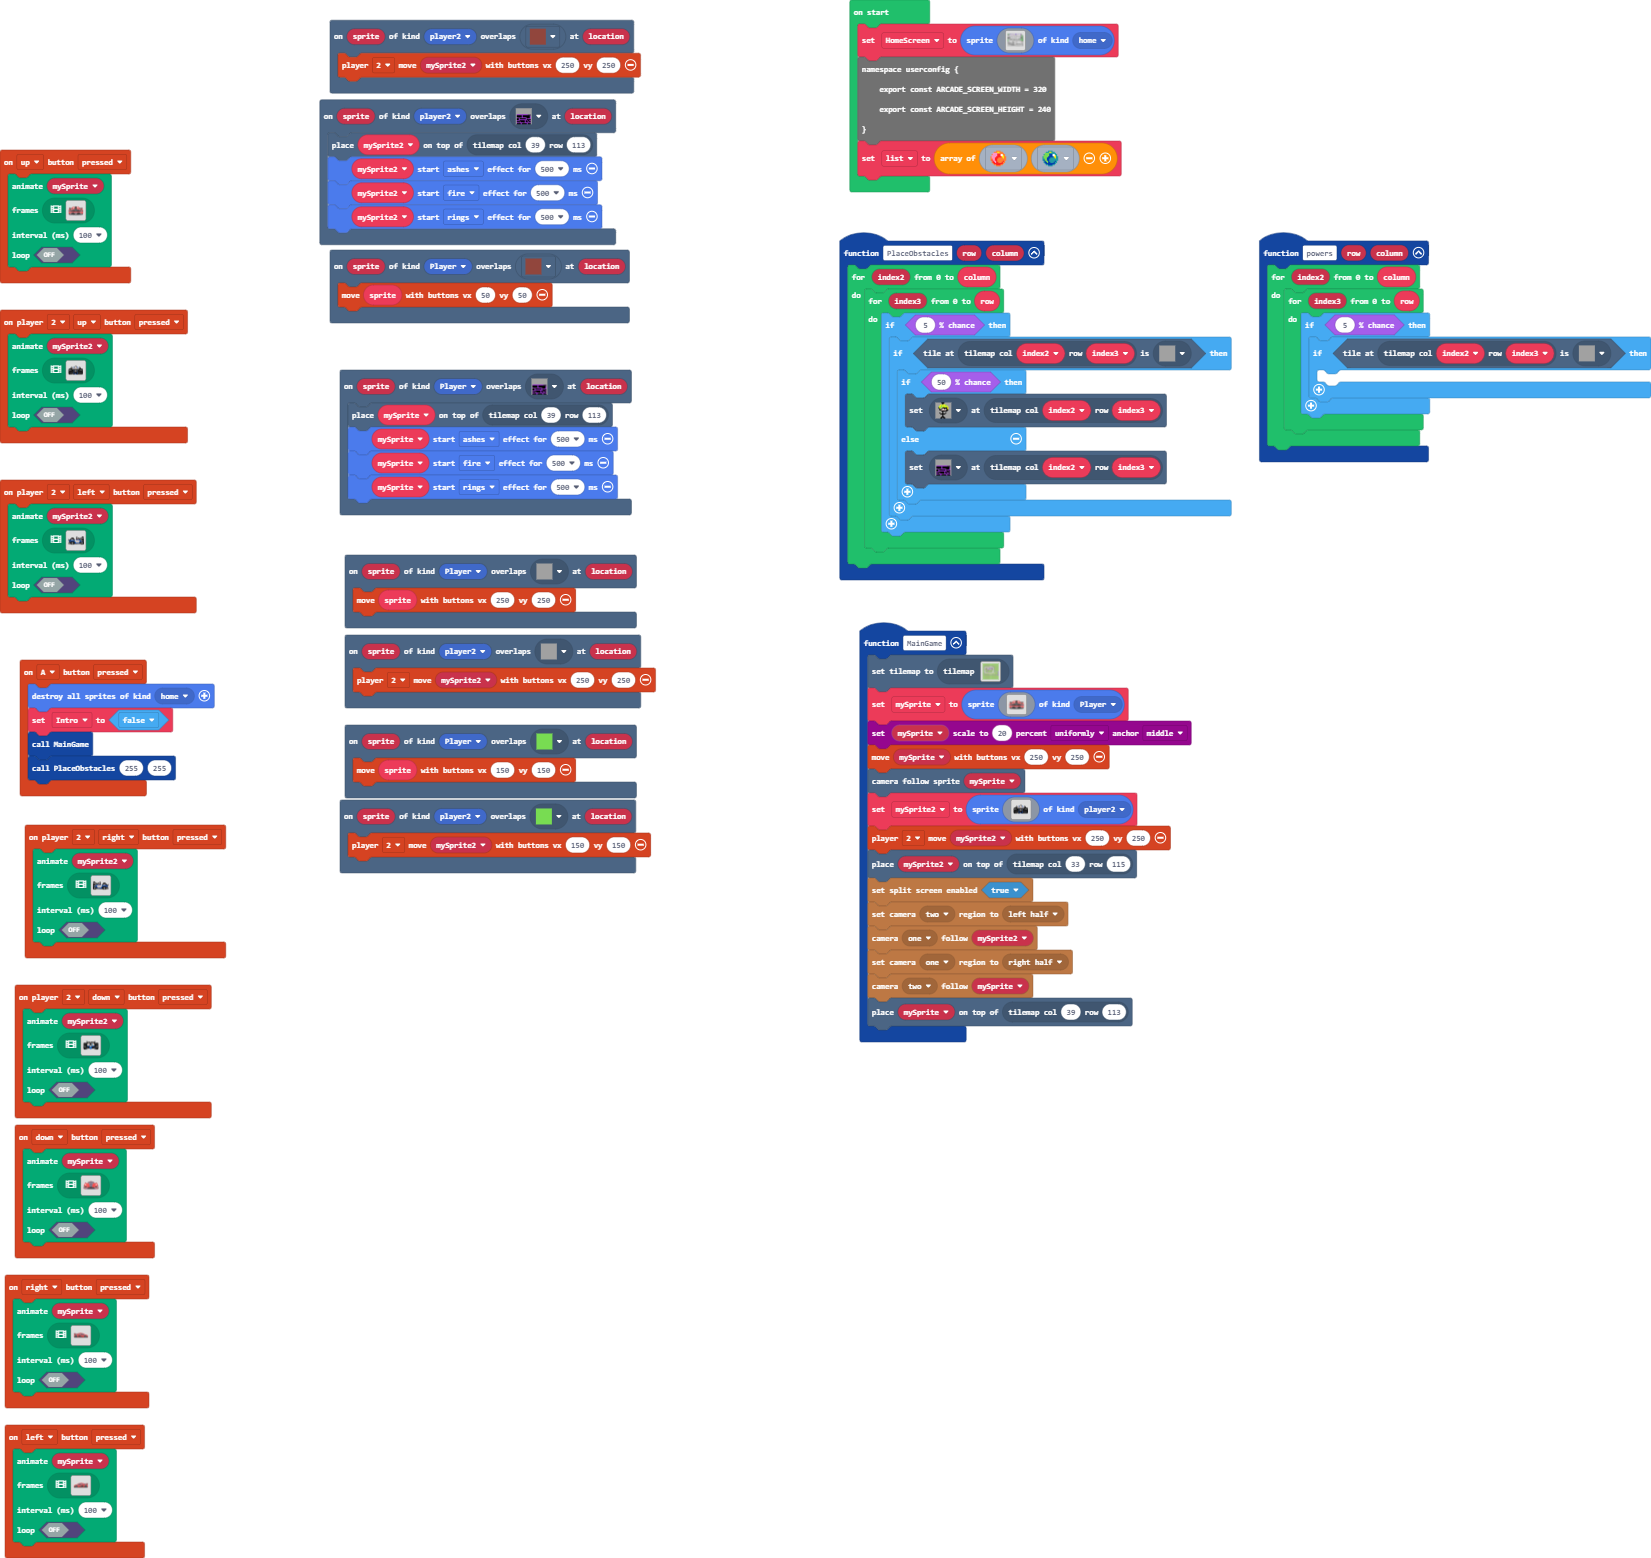
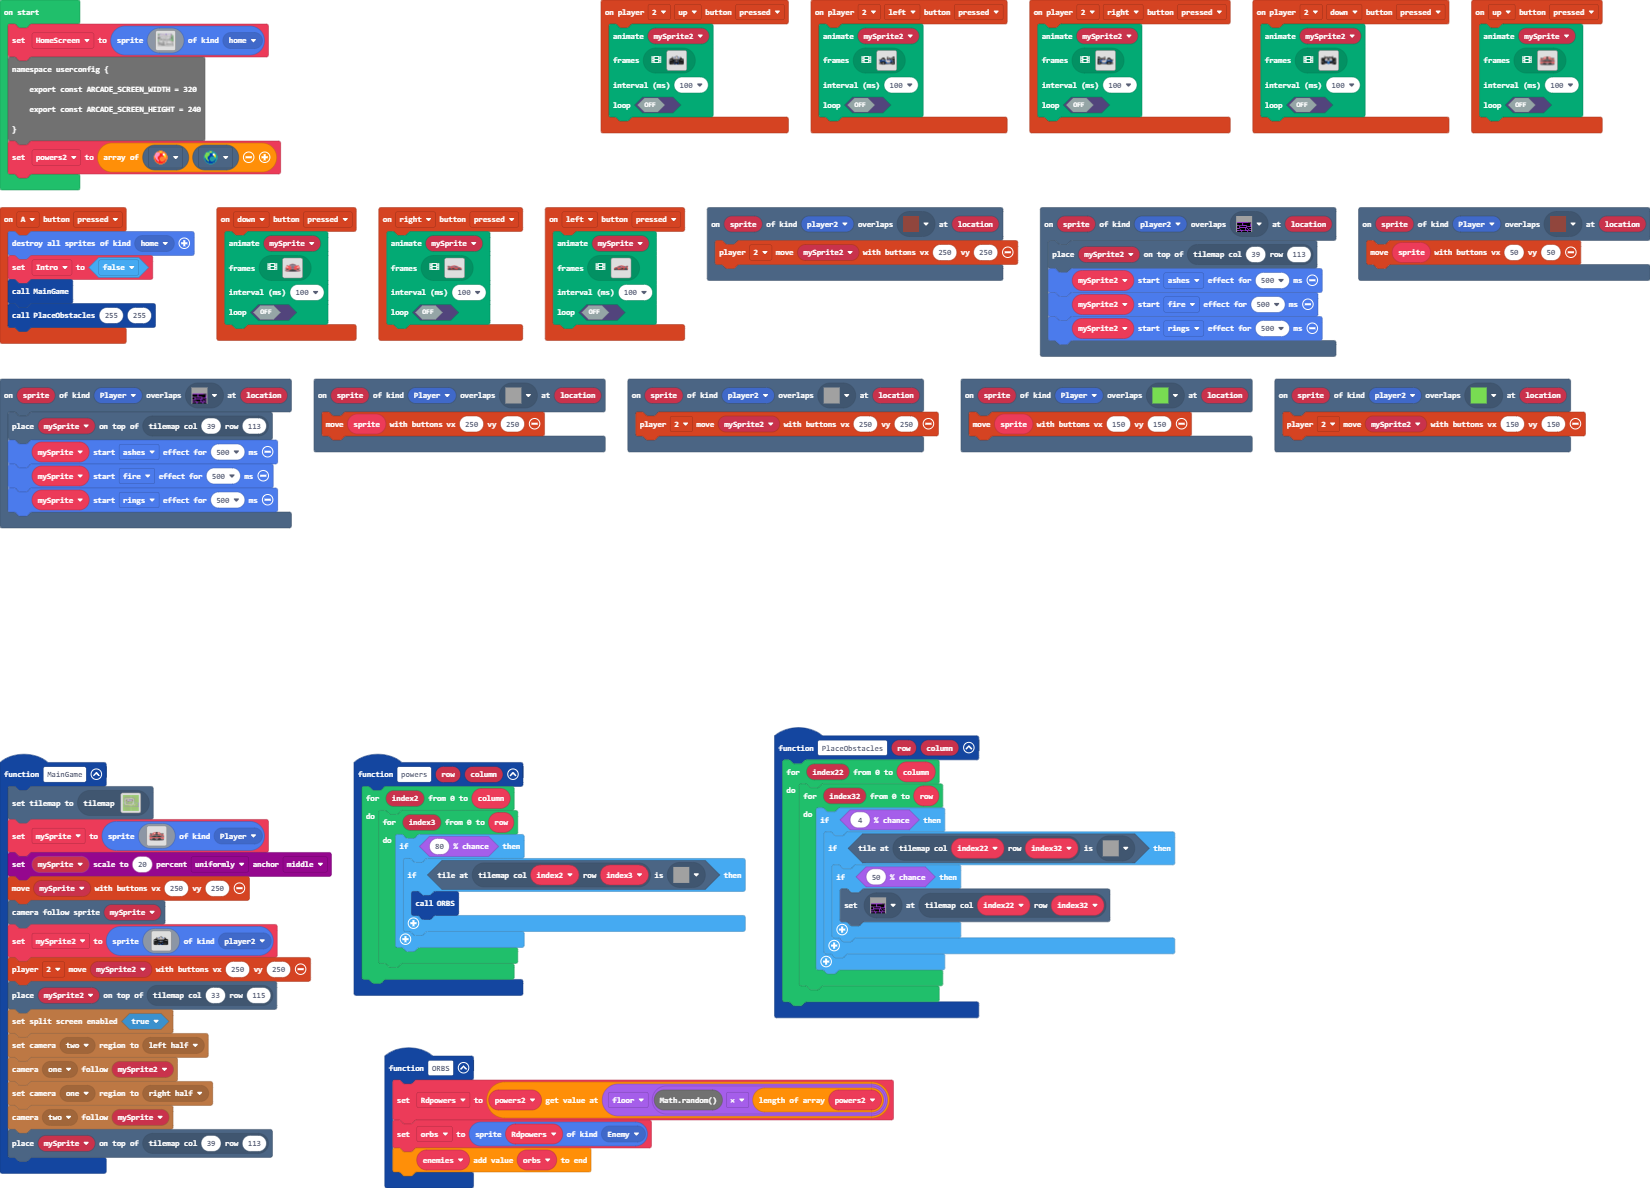
Update main.blocks, main.ts

diff --git a/main.ts b/main.ts
@@ -379,9 +379,9 @@ controller.right.onEvent(ControllerButtonEvent.Pressed, function () {
 function powers (row: number, column: number) {
     for (let index2 = 0; index2 <= column; index2++) {
         for (let index3 = 0; index3 <= row; index3++) {
-            if (Math.percentChance(5)) {
+            if (Math.percentChance(80)) {
                 if (tiles.tileAtLocationEquals(tiles.getTileLocation(index2, index3), assets.tile`road`)) {
-                	
+                    ORBS()
                 }
             }
         }
@@ -573,6 +573,12 @@ controller.player2.onButtonEvent(ControllerButton.Left, ControllerButtonEvent.Pr
     false
     )
 })
+function ORBS () {
+    let enemies: Sprite[] = []
+    Rdpowers = powers2[Math.floor(Math.random() * powers2.length)]
+    orbs = sprites.create(Rdpowers, SpriteKind.Enemy)
+    enemies.push(orbs)
+}
 scene.onOverlapTile(SpriteKind.player2, assets.tile`obstacle-wall`, function (sprite, location) {
     tiles.placeOnTile(mySprite2, tiles.getTileLocation(39, 113))
     mySprite2.startEffect(effects.ashes, 500)
@@ -595,26 +601,27 @@ scene.onOverlapTile(SpriteKind.Player, assets.tile`obstacle-wall`, function (spr
     mySprite.startEffect(effects.rings, 500)
 })
 function PlaceObstacles (row: number, column: number) {
-    for (let index2 = 0; index2 <= column; index2++) {
-        for (let index3 = 0; index3 <= row; index3++) {
-            if (Math.percentChance(5)) {
-                if (tiles.tileAtLocationEquals(tiles.getTileLocation(index2, index3), assets.tile`road`)) {
+    for (let index22 = 0; index22 <= column; index22++) {
+        for (let index32 = 0; index32 <= row; index32++) {
+            if (Math.percentChance(4)) {
+                if (tiles.tileAtLocationEquals(tiles.getTileLocation(index22, index32), assets.tile`road`)) {
                     if (Math.percentChance(50)) {
-                        tiles.setTileAt(tiles.getTileLocation(index2, index3), assets.tile`myTileperson`)
-                    } else {
-                        tiles.setTileAt(tiles.getTileLocation(index2, index3), assets.tile`obstacle-wall`)
+                        tiles.setTileAt(tiles.getTileLocation(index22, index32), assets.tile`obstacle-wall`)
                     }
                 }
             }
         }
     }
 }
+let orbs: Sprite = null
+let Rdpowers: Image = null
 let Intro = false
 let mySprite2: Sprite = null
 let mySprite: Sprite = null
+let powers2: Image[] = []
 let HomeScreen = sprites.create(assets.image`Homescreen`, SpriteKind.home)
 namespace userconfig {
     export const ARCADE_SCREEN_WIDTH = 320
     export const ARCADE_SCREEN_HEIGHT = 240
 }
-let list = [sprites.dungeon.collectibleRedCrystal, sprites.dungeon.collectibleBlueCrystal]
+powers2 = [sprites.dungeon.collectibleRedCrystal, sprites.dungeon.collectibleBlueCrystal]
